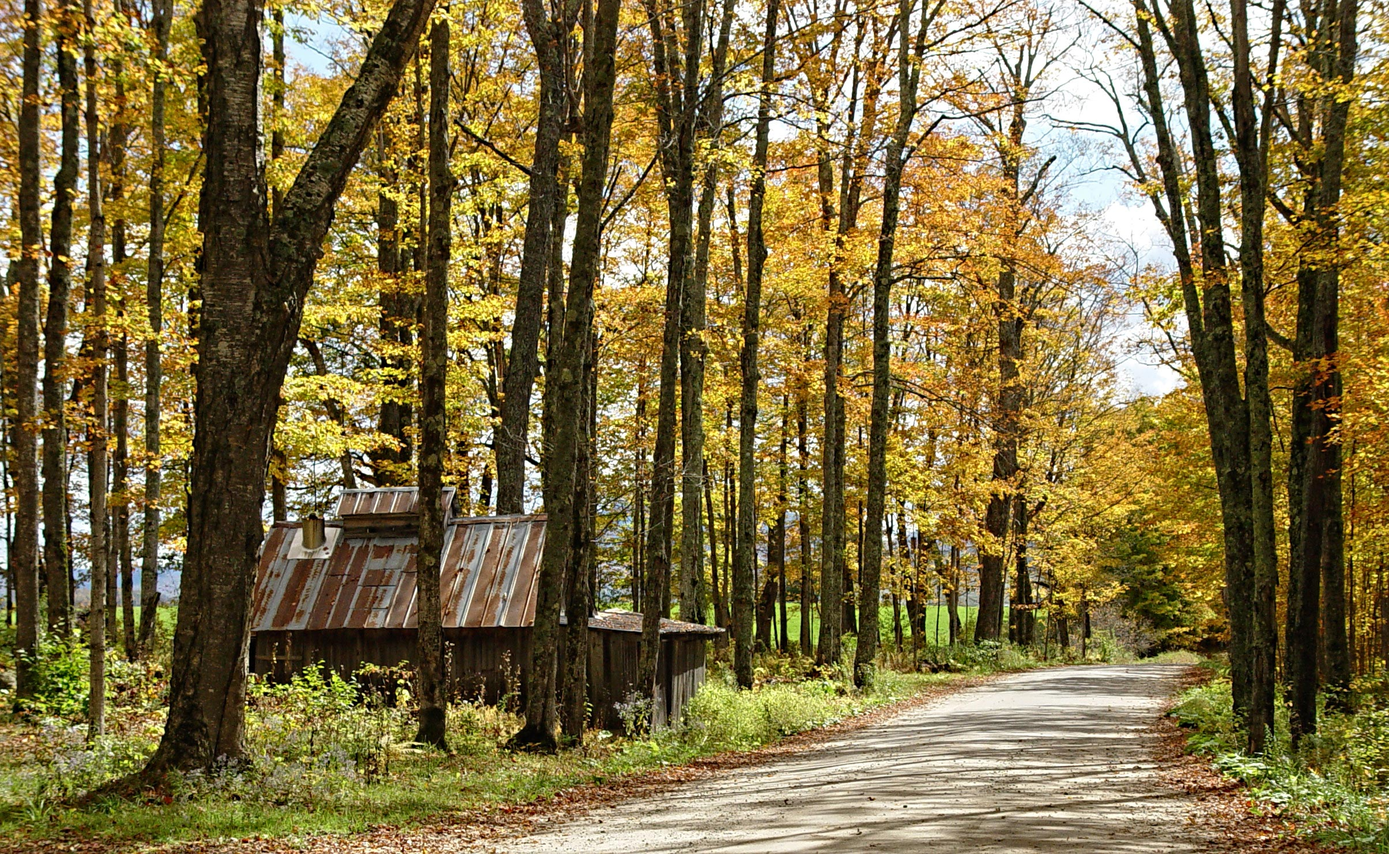
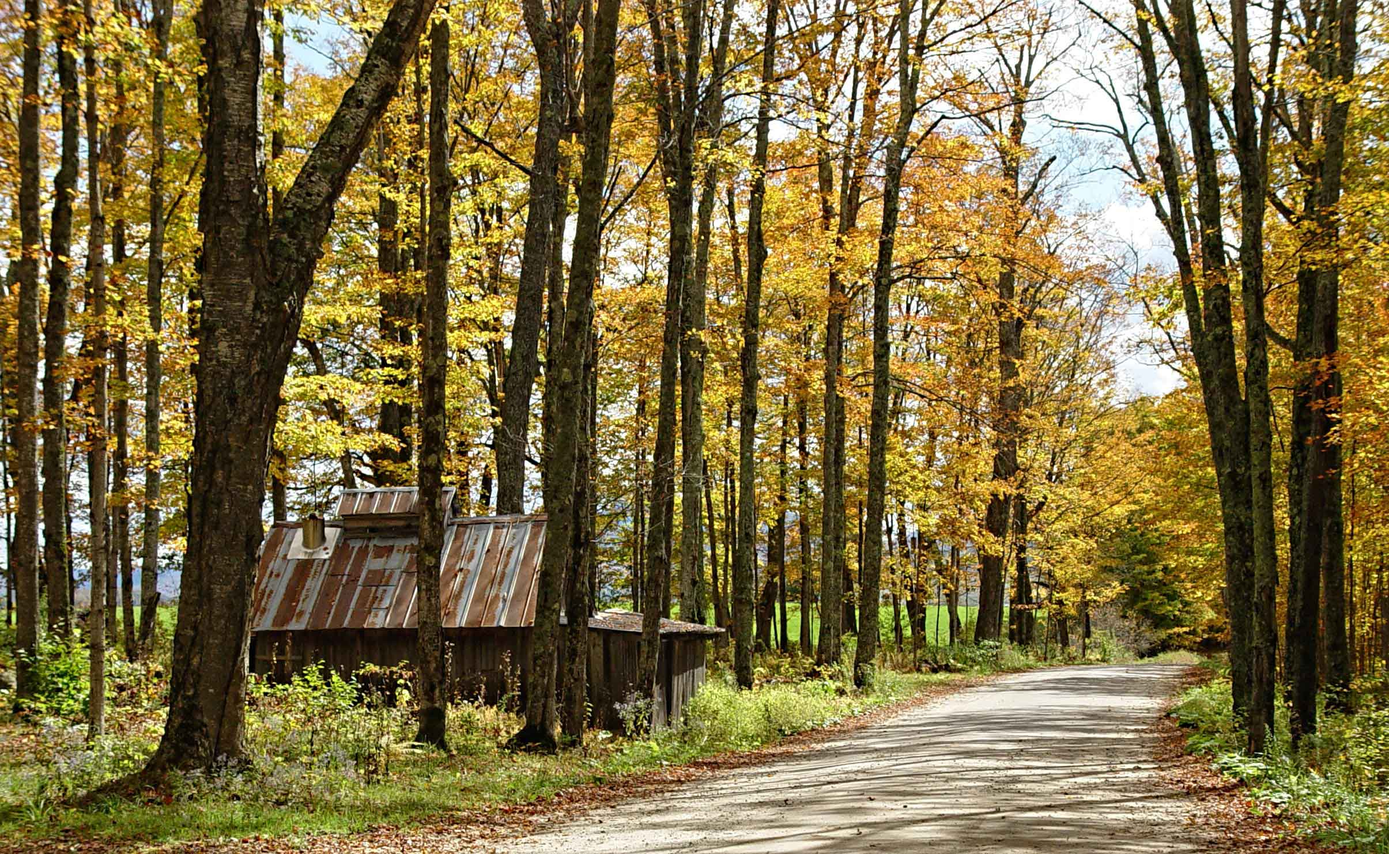
included even more compressed hero image

diff --git a/css/main.sass b/css/main.sass
@@ -118,7 +118,7 @@ header
   position: relative
   width: 100%
   @mixin background-cover
-  background: url("../img/header.compressed.jpg") center
+  background: $gray-lighter url("../img/header.compressed.jpg") center
   text-align: center
   color: white
   overflow: hidden

diff --git a/css/main.css b/css/main.css
@@ -102,7 +102,7 @@ aside {
 header {
   position: relative;
   width: 100%;
-  background: url("../img/header.compressed.jpg") center;
+  background: #eeeeee url("../img/header.compressed.jpg") center;
   text-align: center;
   color: white;
   overflow: hidden; }
